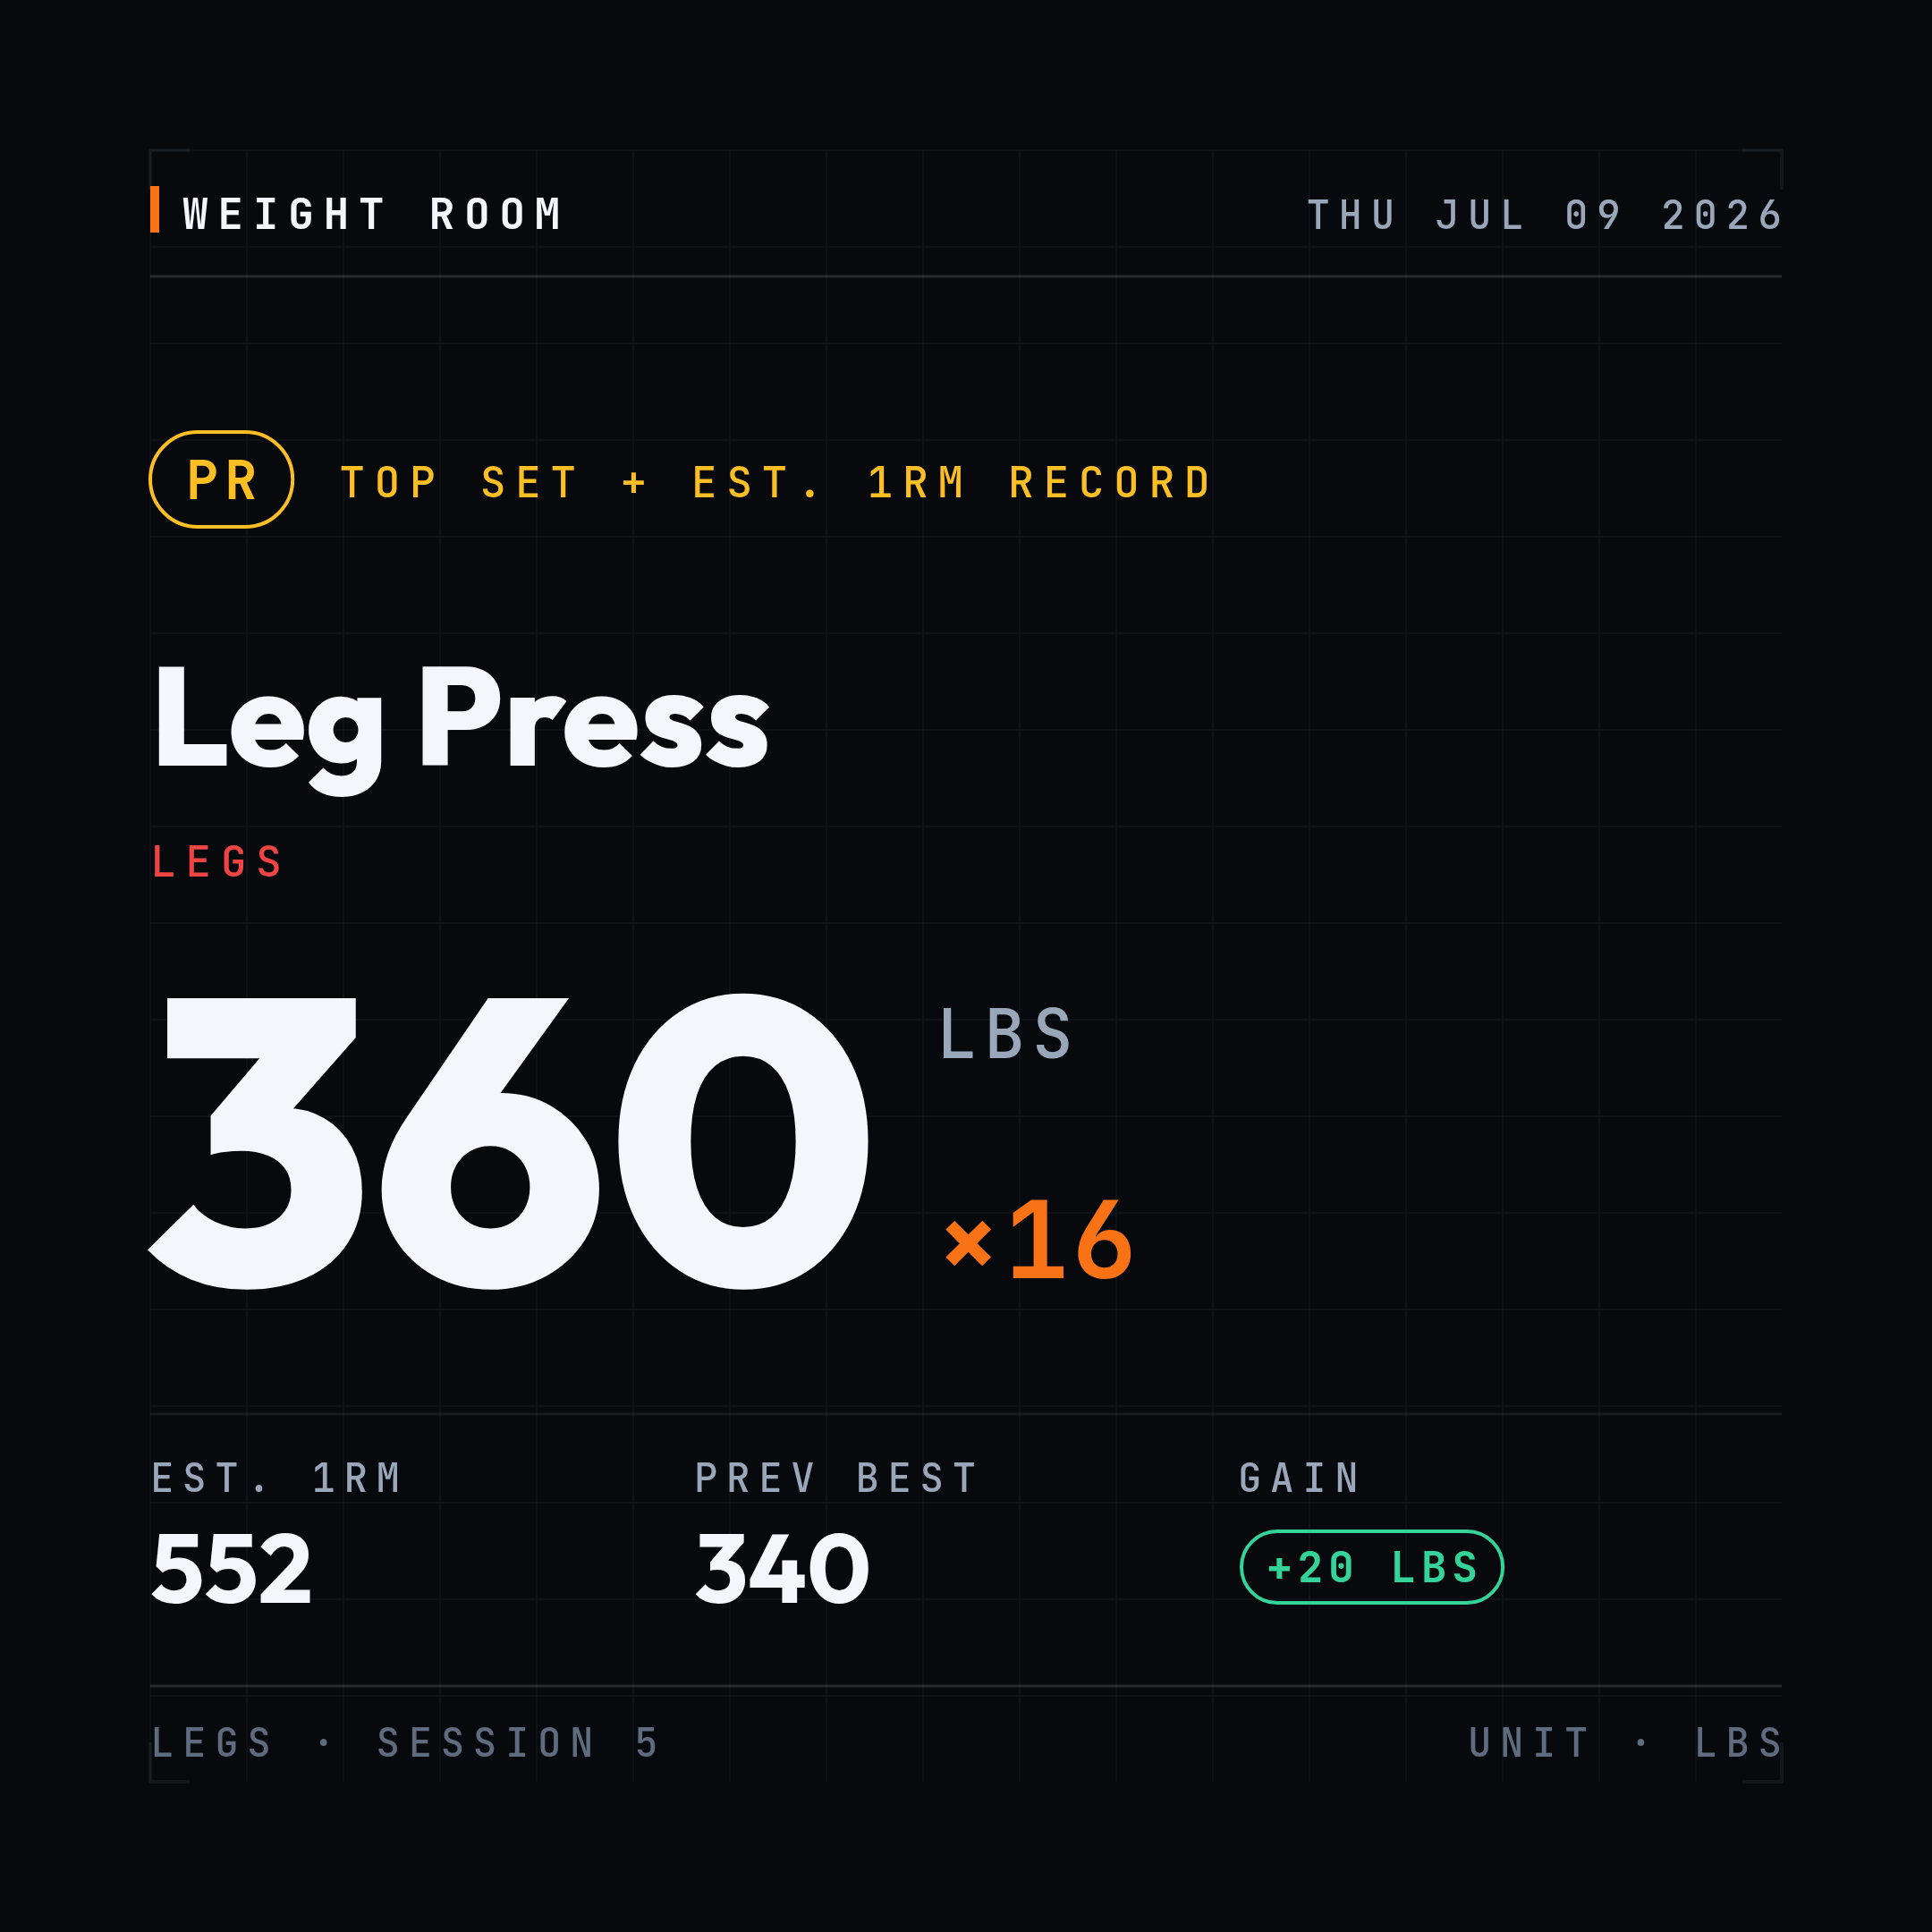
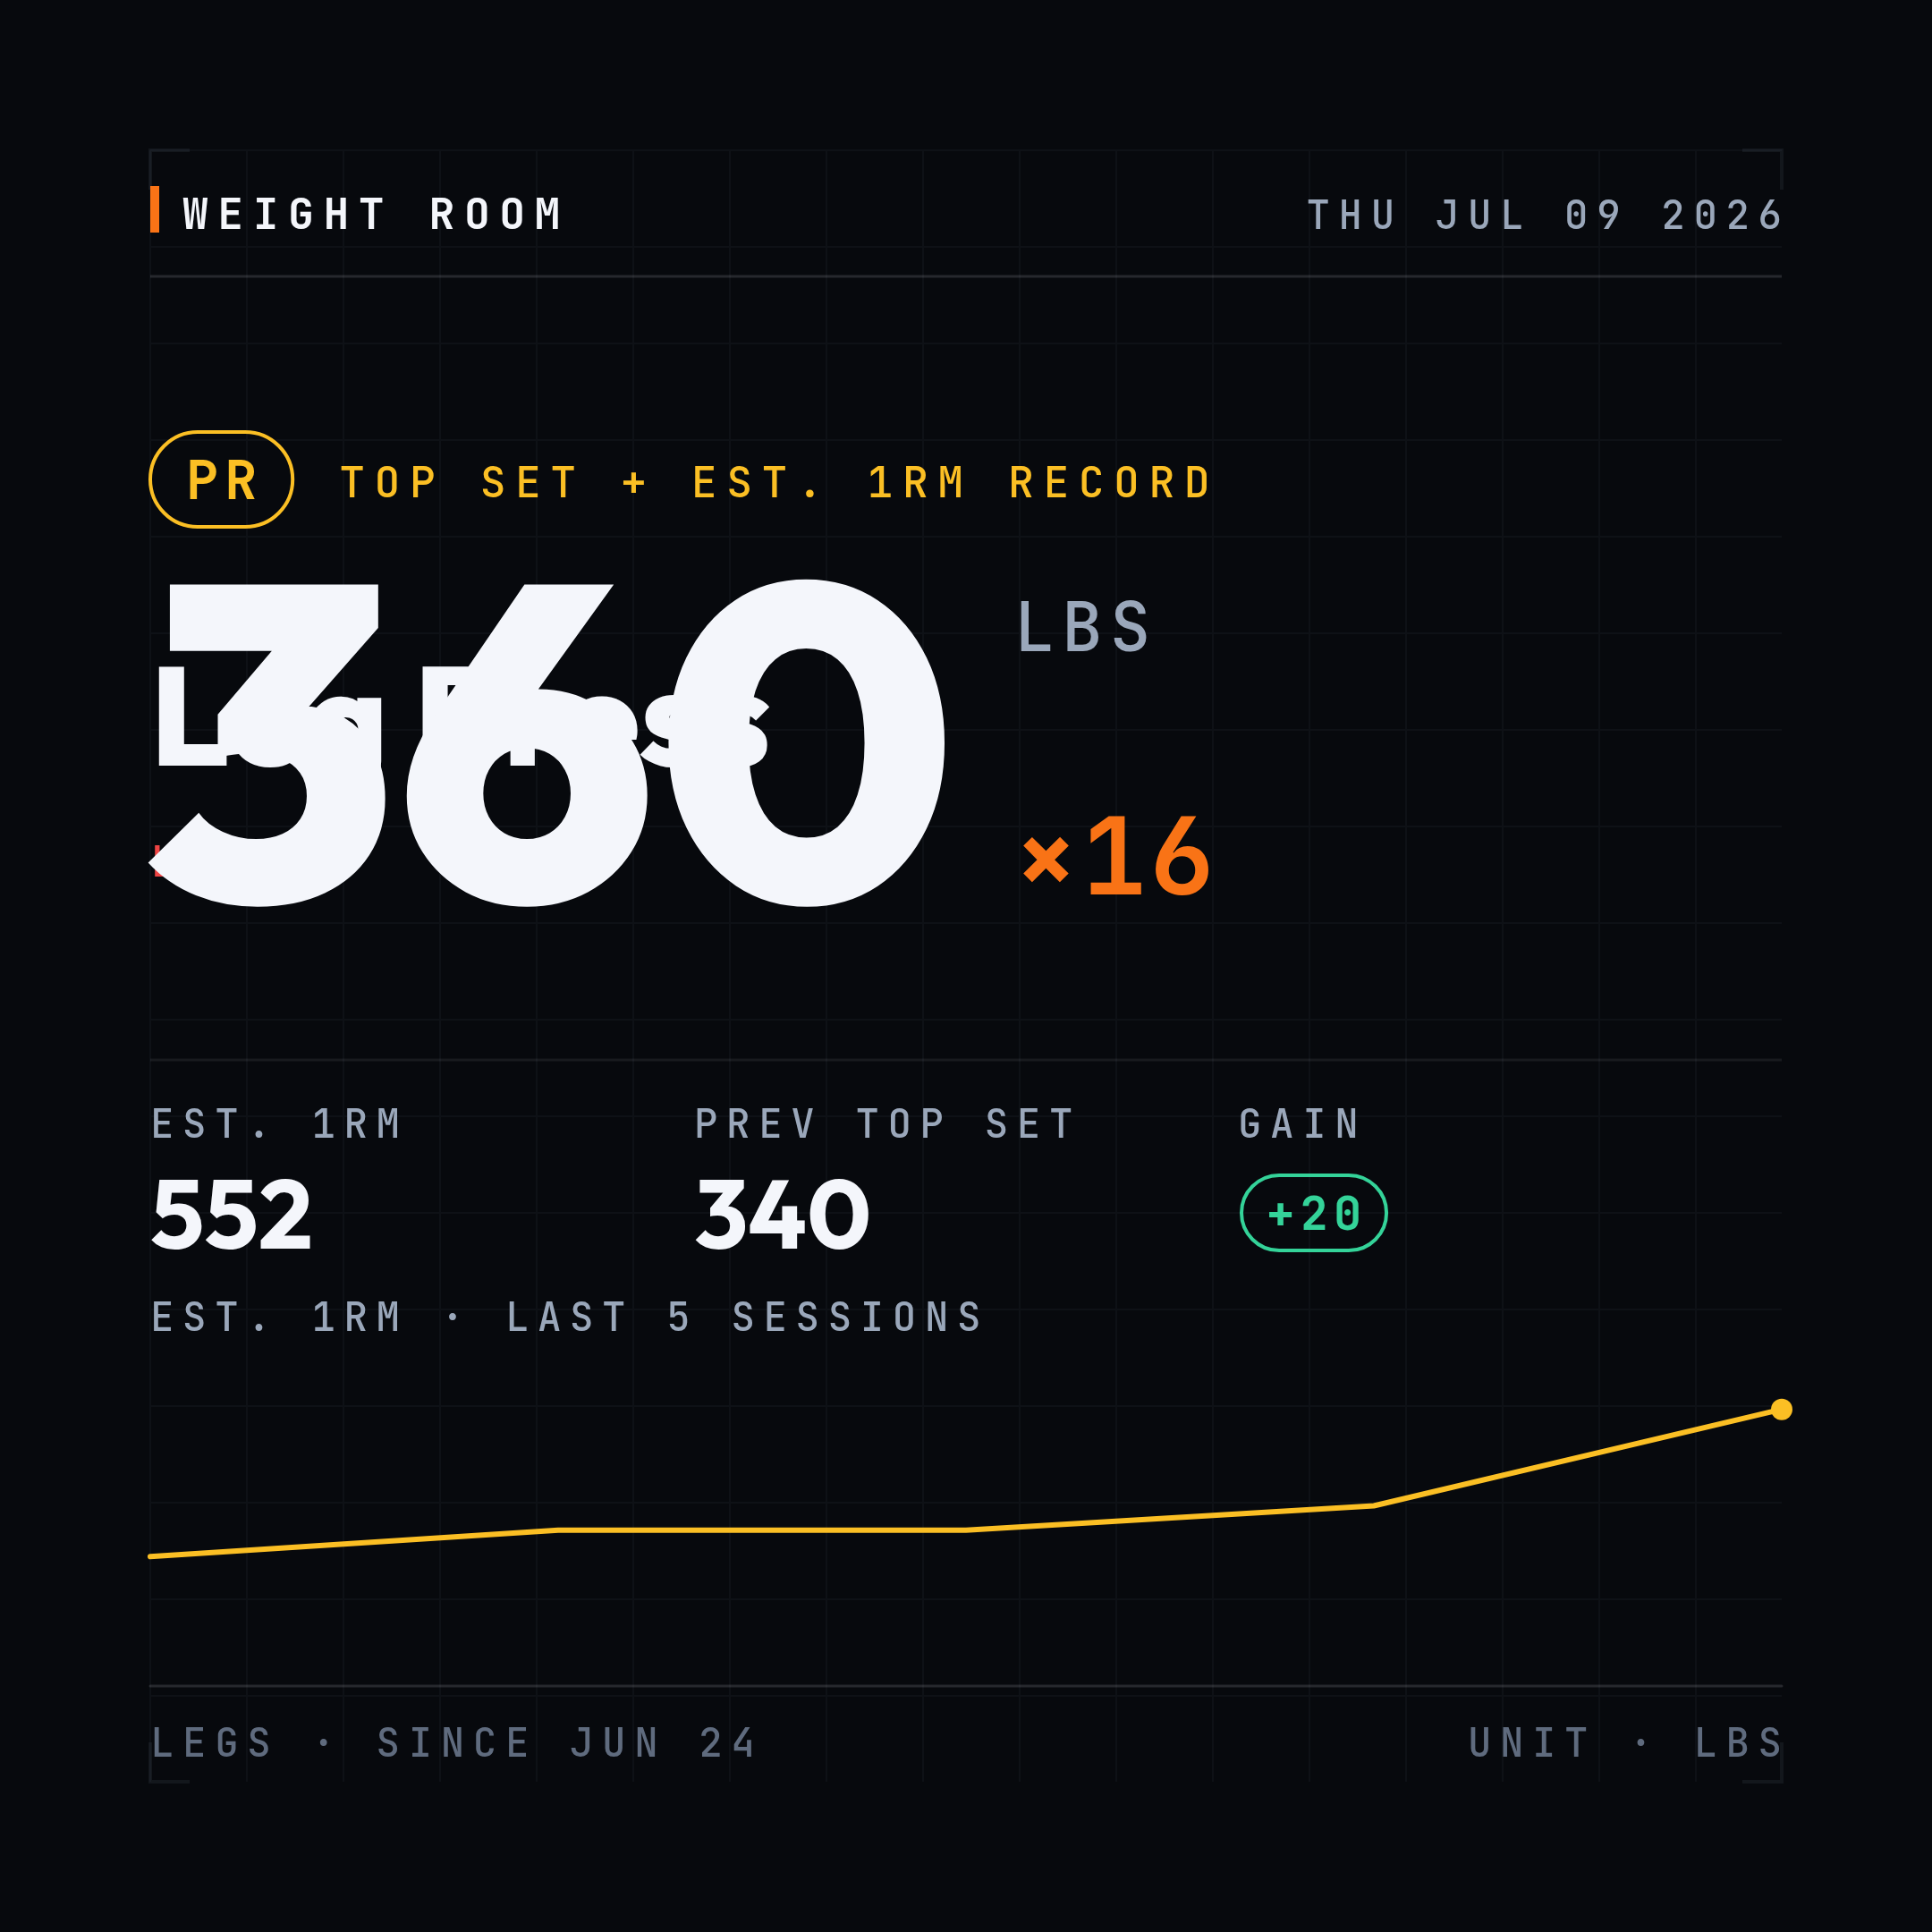
Card iteration 2: fix everything brand checker #1 found
First-time progress card: the lone unlabeled dot (read as a failed render
at feed size) is now a labeled baseline marker with the est. 1RM value,
date, and the same PR-ring encoding the other charts use. Story session
layouts are height-aware: rows stretch tall and split leftover space, so
a 5-exercise story no longer ends in a third of a frame of black. The
PR-square template has fixed geometry (constant hero size/gaps, sparkline
slot always present with an honest first-ever state) so cards read as
siblings on a grid. Cross-card contradictions removed (footer SINCE date
instead of a second session-number scheme; PREV TOP SET labelling; PR
marker encoding). Est. 1RMs round everywhere; gain chips drop duplicate
units; '+N more' overflow is a real table row with the hidden volume.

House-rules checker verdict on this feature: 7/7 PASS (2 taps to a
2160px PNG, zero external requests, fonts lazy, no layout shift, data
byte-identical, 76/76 tests).

Claude-Session: https://claude.ai/code/session_017FFDWztrMnJ799jVbag4ee

diff --git a/src/lib/share/cards.js b/src/lib/share/cards.js
@@ -43,6 +43,11 @@ function fmtNum(v) {
   return Number.isInteger(r) ? String(r) : r.toFixed(1)
 }
 
+// Estimated 1RMs are estimates — decimals read as spreadsheet output.
+function fmtE1(v) {
+  return String(Math.round(v))
+}
+
 function fmtVol(v) {
   return Math.round(v).toLocaleString('en-US')
 }
@@ -151,21 +156,18 @@ export function renderPRCard(moment, formatKey = 'square') {
     nameSize: story ? 92 : 78,
   })
 
-  // Bottom-anchored zones (upward from the footer). The square format is
-  // hero-focused — the e1RM sparkline only appears on the roomier story.
-  const showSpark = story && moment.history.length >= 2
-  const sparkH = 240 // strip incl. its label (story only)
-  const sparkTop = footerTop - sparkH - 44
-  const statsY = story ? sparkTop - 132 : footerTop - 108
-  // Hero fills the space between the title block and the sub-stats.
-  const heroSpace = statsY - 64 - nameBottom
-  const heroSize = Math.min(story ? 330 : 290, Math.max(150, heroSpace - 40))
+  // Fixed template geometry — identical on every PR card of a format, so a
+  // profile grid of these reads as siblings (no data-dependent size drift).
+  const sparkH = story ? 240 : 170 // strip incl. its label
+  const sparkTop = footerTop - sparkH - (story ? 44 : 28)
+  const statsY = sparkTop - (story ? 132 : 108)
+  const heroSize = story ? 330 : 250
+  const heroBaseline = statsY - (story ? 190 : 132)
 
   const weightStr = fmtNum(moment.topWeight)
   const usedHero = fitText(ctx, weightStr, (s) => sans(s, 800), heroSize, 110, contentW - 250)
   ctx.font = sans(usedHero, 800)
   ctx.fillStyle = INK.text
-  const heroBaseline = nameBottom + heroSpace / 2 + usedHero * 0.36
   ctx.fillText(weightStr, MARGIN - 4, heroBaseline)
   const weightW = ctx.measureText(weightStr).width
   ctx.font = mono(38, 500)
@@ -175,22 +177,26 @@ export function renderPRCard(moment, formatKey = 'square') {
   ctx.fillStyle = ACCENT.brand
   trackedText(ctx, `×${moment.topReps}`, MARGIN + weightW + 28, heroBaseline - 4, 2)
 
-  // Sub-stats row.
+  // Sub-stats row. PREV TOP SET + GAIN share the top-set basis (est. 1RM is
+  // its own column) so adjacent numbers can't be misread across bases.
   hairline(ctx, MARGIN, statsY - 44, w - MARGIN, INK.hairlineFaint)
   const hasGain = moment.deltaTop != null && moment.deltaTop > 0
   const cols = [
-    { label: 'EST. 1RM', value: fmtNum(moment.e1rm) },
-    { label: 'PREV BEST', value: moment.prevBestTop != null ? fmtNum(moment.prevBestTop) : '—' },
+    { label: 'EST. 1RM', value: fmtE1(moment.e1rm) },
+    {
+      label: 'PREV TOP SET',
+      value: moment.prevBestTop != null ? fmtNum(moment.prevBestTop) : '—',
+    },
     hasGain
-      ? { label: 'GAIN', chipText: `+${fmtNum(moment.deltaTop)} ${unit}` }
-      : { label: 'SESSIONS', value: String(moment.sessionCount) },
+      ? { label: 'GAIN', chipText: `+${fmtNum(moment.deltaTop)}` }
+      : { label: 'LIFT SESSIONS', value: String(moment.sessionCount) },
   ]
   const colW = contentW / 3
   cols.forEach((c, i) => {
     const cx = MARGIN + i * colW
     metaLabel(ctx, c.label, cx, statsY, { size: 22 })
     if (c.chipText) {
-      chip(ctx, c.chipText, cx + 2, statsY + 42, { color: ACCENT.pos, size: 24 })
+      chip(ctx, c.chipText, cx + 2, statsY + 42, { color: ACCENT.pos, size: 26 })
     } else {
       ctx.font = sans(54, 700)
       ctx.fillStyle = INK.text
@@ -198,8 +204,9 @@ export function renderPRCard(moment, formatKey = 'square') {
     }
   })
 
-  // Sparkline strip (story only), anchored above the footer.
-  if (showSpark) {
+  // Sparkline strip — same slot on both formats; the first-ever case gets an
+  // honest labeled state in the SAME slot (template never changes shape).
+  if (moment.history.length >= 2) {
     metaLabel(ctx, `EST. 1RM · LAST ${moment.history.length} SESSIONS`, MARGIN, sparkTop, {
       size: 22,
     })
@@ -209,13 +216,20 @@ export function renderPRCard(moment, formatKey = 'square') {
       { x: MARGIN, y: sparkTop + 36, w: contentW, h: sparkH - 72 },
       ACCENT.pr,
     )
-  } else if (story) {
-    metaLabel(ctx, 'NEW MOVEMENT — THE TREND STARTS HERE', MARGIN, sparkTop + sparkH / 2, {
-      size: 22,
-    })
+  } else {
+    metaLabel(ctx, 'EST. 1RM · TREND', MARGIN, sparkTop, { size: 22 })
+    const midY = sparkTop + 36 + (sparkH - 72) / 2
+    hairline(ctx, MARGIN, midY, w - MARGIN, INK.hairlineFaint)
+    ctx.beginPath()
+    ctx.arc(MARGIN + 10, midY, 8, 0, Math.PI * 2)
+    ctx.fillStyle = ACCENT.pr
+    ctx.fill()
+    ctx.font = mono(28, 600)
+    ctx.fillStyle = INK.dim
+    trackedText(ctx, `${fmtE1(moment.e1rm)} — BASELINE SET`, MARGIN + 34, midY + 10, 1)
   }
 
-  footer(ctx, w, h, `${moment.group} · SESSION ${moment.sessionCount}`, moment.unit)
+  footer(ctx, w, h, `${moment.group} · SINCE ${fmtShortDate(moment.history[0]?.date || moment.date)}`, moment.unit)
   return canvas
 }
 
@@ -296,20 +310,26 @@ export function renderSessionCard(moment, formatKey = 'square') {
   let maxRows = Math.floor(rowsSpace / rowH)
   const overflow = n > maxRows
   const shown = moment.exercises.slice(0, overflow ? maxRows - 1 : n)
-  // Distribute leftover space so the table breathes to the footer.
-  rowH = Math.min(rowH * 1.18, rowsSpace / (shown.length + (overflow ? 1 : 0)))
+  const rowCount = shown.length + (overflow ? 1 : 0)
+  // Height-aware: rows stretch toward the footer (story gets properly tall
+  // rows), and whatever can't be absorbed is split above/below the table so
+  // the frame never ends in a slab of dead black.
+  rowH = Math.min(roomyH * (story ? 1.9 : 1.25), rowsSpace / rowCount)
+  const tall = rowH > 120
+  y += Math.max(0, (rowsSpace - rowCount * rowH) / 2)
 
   for (const ex of shown) {
     const mid = y + rowH / 2
     accentTick(ctx, MARGIN, mid - 13, 26, groupColor(ex.group))
 
+    const rightSize = compact ? 30 : tall ? 38 : 32
     const rightStr = `${fmtNum(ex.topWeight)}×${ex.topReps}`
-    ctx.font = mono(compact ? 30 : 32, 600)
+    ctx.font = mono(rightSize, 600)
     const rightW = measureTracked(ctx, rightStr, 1)
     ctx.font = mono(21, 700)
     const prW = ex.isPR ? measureTracked(ctx, '● PR', 2) + 28 : 0
 
-    const nameSize = compact ? 32 : 36
+    const nameSize = compact ? 32 : tall ? 42 : 36
     const nameMax = contentW - rightW - (compact ? prW : 0) - 70
     ctx.font = sans(nameSize, 600)
     ctx.fillStyle = INK.text
@@ -319,23 +339,37 @@ export function renderSessionCard(moment, formatKey = 'square') {
     const nameY = compact ? mid + nameSize * 0.34 : mid - 4
     ctx.fillText(name, MARGIN + 24, nameY)
     if (!compact) {
-      metaLabel(ctx, `${ex.sets} SETS`, MARGIN + 24, mid + 28, { size: 20, color: INK.faint })
+      metaLabel(ctx, `${ex.sets} SETS`, MARGIN + 24, mid + (tall ? 36 : 28), {
+        size: 22,
+        color: INK.faint,
+      })
     }
 
-    ctx.font = mono(compact ? 30 : 32, 600)
+    ctx.font = mono(rightSize, 600)
     ctx.fillStyle = INK.text
     const rightY = compact ? mid + 10 : mid - 2
     trackedText(ctx, rightStr, w - MARGIN - (compact ? prW : 0), rightY, 1, 'right')
     if (ex.isPR) {
       ctx.font = mono(21, 700)
       ctx.fillStyle = ACCENT.pr
-      trackedText(ctx, '● PR', w - MARGIN, compact ? rightY : mid + 28, 2, 'right')
+      trackedText(ctx, '● PR', w - MARGIN, compact ? rightY : mid + (tall ? 36 : 28), 2, 'right')
     }
     hairline(ctx, MARGIN, y + rowH, w - MARGIN, INK.hairlineFaint)
     y += rowH
   }
   if (overflow) {
-    metaLabel(ctx, `+ ${n - shown.length} MORE`, MARGIN, y + rowH / 2 + 8, { size: 22 })
+    // The overflow row is a real table row, not an apologetic whisper: count
+    // on the left, the hidden work's aggregate volume on the right.
+    const hidden = moment.exercises.slice(shown.length)
+    const mid = y + rowH / 2
+    accentTick(ctx, MARGIN, mid - 13, 26, INK.faint)
+    ctx.font = sans(compact ? 32 : 36, 600)
+    ctx.fillStyle = INK.dim
+    ctx.fillText(`+ ${hidden.length} more exercises`, MARGIN + 24, mid + 12)
+    const hiddenVol = hidden.reduce((sum, ex) => sum + ex.volume, 0)
+    ctx.font = mono(compact ? 30 : 32, 600)
+    ctx.fillStyle = INK.dim
+    trackedText(ctx, `${fmtVol(hiddenVol)} VOL`, w - MARGIN, mid + 10, 1, 'right')
   }
 
   footer(ctx, w, h, `SESSION ${String(moment.sessionNumber).padStart(3, '0')}`, moment.unit)
@@ -369,10 +403,10 @@ export function renderProgressCard(moment, formatKey = 'square') {
   const hasDelta = moment.deltaE1 != null && Math.abs(moment.deltaE1) > 0.05
   const up = hasDelta && moment.deltaE1 > 0
   const cols = [
-    { label: 'EST. 1RM NOW', value: fmtNum(moment.currentE1), big: true },
-    { label: 'ALL-TIME BEST', value: fmtNum(moment.bestE1) },
+    { label: 'EST. 1RM NOW', value: fmtE1(moment.currentE1), big: true },
+    { label: 'ALL-TIME BEST', value: fmtE1(moment.bestE1) },
     hasDelta
-      ? { label: 'CHANGE', chipText: `${up ? '+' : '−'}${fmtNum(Math.abs(moment.deltaE1))} ${unit}`, up }
+      ? { label: 'CHANGE', chipText: `${up ? '+' : '−'}${fmtE1(Math.abs(moment.deltaE1))}`, up }
       : { label: 'SESSIONS', value: String(moment.totalSessions) },
   ]
   const colW = contentW / 3
@@ -401,41 +435,52 @@ export function renderProgressCard(moment, formatKey = 'square') {
     // Y figures on the right gutter, kept inside the chart's vertical range.
     const maxV = Math.max(...values)
     const minV = Math.min(...values)
-    ctx.font = mono(24, 500)
+    ctx.font = mono(30, 600)
     ctx.fillStyle = INK.dim
-    trackedText(ctx, fmtNum(maxV), MARGIN + chartBox.w + 24, chartTop + 26, 1)
-    trackedText(ctx, fmtNum(minV), MARGIN + chartBox.w + 24, chartTop + chartH, 1)
+    trackedText(ctx, fmtE1(maxV), MARGIN + chartBox.w + 24, chartTop + 30, 1)
+    trackedText(ctx, fmtE1(minV), MARGIN + chartBox.w + 24, chartTop + chartH, 1)
     // Axis row: dates + PR legend, one line.
-    metaLabel(ctx, fmtShortDate(moment.windowStart), MARGIN, axisY, { size: 22 })
+    metaLabel(ctx, fmtShortDate(moment.windowStart), MARGIN, axisY, { size: 24 })
     metaLabel(ctx, fmtShortDate(moment.windowEnd), MARGIN + chartBox.w, axisY, {
-      size: 22,
+      size: 24,
       align: 'right',
     })
     if (moment.series.some((p) => p.pr)) {
-      const cx = w / 2 - 60
+      const cx = w / 2 - 70
       ctx.beginPath()
-      ctx.arc(cx, axisY - 8, 6, 0, Math.PI * 2)
+      ctx.arc(cx, axisY - 9, 7, 0, Math.PI * 2)
       ctx.strokeStyle = ACCENT.pr
       ctx.lineWidth = 3
       ctx.fillStyle = INK.bg
       ctx.fill()
       ctx.stroke()
-      metaLabel(ctx, 'PR SESSION', cx + 18, axisY, { size: 21 })
+      metaLabel(ctx, 'PR SESSION', cx + 20, axisY, { size: 24 })
     }
   } else {
+    // One session is a baseline, not a trend — say so with a labeled marker
+    // (PR-ring encoding matches every other chart: a first session IS a PR).
+    const midY = chartTop + chartH / 2
     ctx.strokeStyle = INK.hairlineFaint
     ctx.lineWidth = 1.5
-    for (const fy of [0, 0.5, 1]) {
-      ctx.beginPath()
-      ctx.moveTo(MARGIN, chartTop + chartH * fy)
-      ctx.lineTo(MARGIN + chartBox.w, chartTop + chartH * fy)
-      ctx.stroke()
-    }
     ctx.beginPath()
-    ctx.arc(MARGIN + chartBox.w / 2, chartTop + chartH / 2, 8, 0, Math.PI * 2)
-    ctx.fillStyle = color
+    ctx.moveTo(MARGIN, midY)
+    ctx.lineTo(MARGIN + chartBox.w, midY)
+    ctx.stroke()
+    const dotX = MARGIN + 96
+    ctx.beginPath()
+    ctx.arc(dotX, midY, 11, 0, Math.PI * 2)
+    ctx.fillStyle = INK.bg
     ctx.fill()
-    metaLabel(ctx, 'FIRST SESSION LOGGED — TREND STARTS HERE', MARGIN, axisY, { size: 22 })
+    ctx.strokeStyle = ACCENT.pr
+    ctx.lineWidth = 4
+    ctx.stroke()
+    ctx.font = mono(34, 600)
+    ctx.fillStyle = INK.text
+    trackedText(ctx, `${fmtE1(moment.currentE1)} EST. 1RM`, dotX + 34, midY + 12, 1)
+    metaLabel(ctx, `BASELINE · ${fmtShortDate(moment.windowEnd)}`, dotX + 34, midY + 56, {
+      size: 24,
+    })
+    metaLabel(ctx, 'FIRST SESSION LOGGED — TREND STARTS HERE', MARGIN, axisY, { size: 24 })
   }
 
   footer(

diff --git a/STATUS-SHARE.md b/STATUS-SHARE.md
@@ -33,3 +33,14 @@ previews in `docs/share-previews/`.
   PR/progress cards, gain chip colliding with the SESSIONS column, headline PR
   picker preferring first-ever sessions over real records, session table
   showing 3 of 7 exercises with dead space below.
+- iter 2 (brand checker #1: BAR NOT MET, 4 bar-failures + nits; house-rules
+  checker: 7/7 PASS). Fixed all: first-time progress lone-dot chart replaced
+  with a labeled baseline marker (PR-ring encoding consistent with the other
+  charts); story session layouts are height-aware (tall rows + centered
+  remainder — no more third-of-frame black); PR-square template geometry is
+  fixed (one hero size, one gap, sparkline slot always present with an honest
+  first-ever state); PR footer no longer contradicts the session card's
+  SESSION NNN stamp; est. 1RMs rounded everywhere; gain/change chips drop the
+  duplicated unit; PREV BEST relabelled PREV TOP SET (no cross-base misread);
+  '+N MORE' overflow is a real table row with the hidden volume aggregate;
+  chart axis/legend micro-type bumped for feed-size legibility.